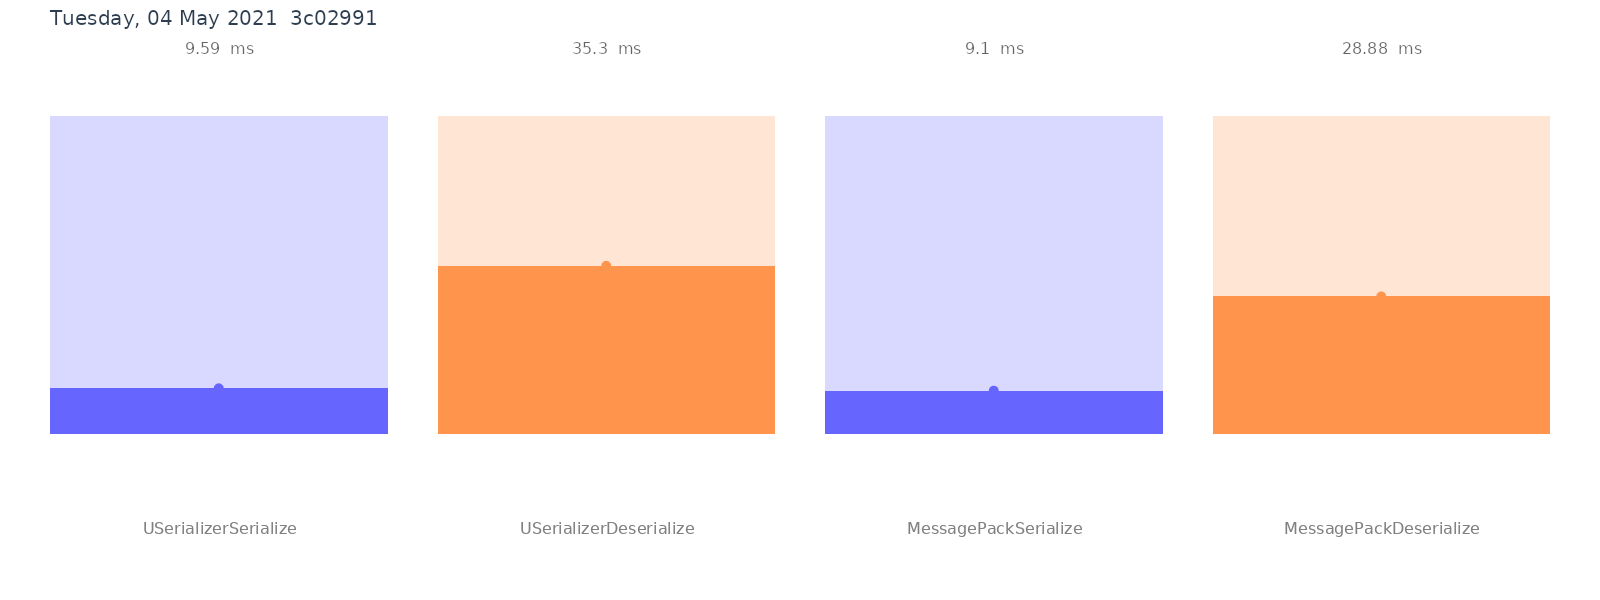
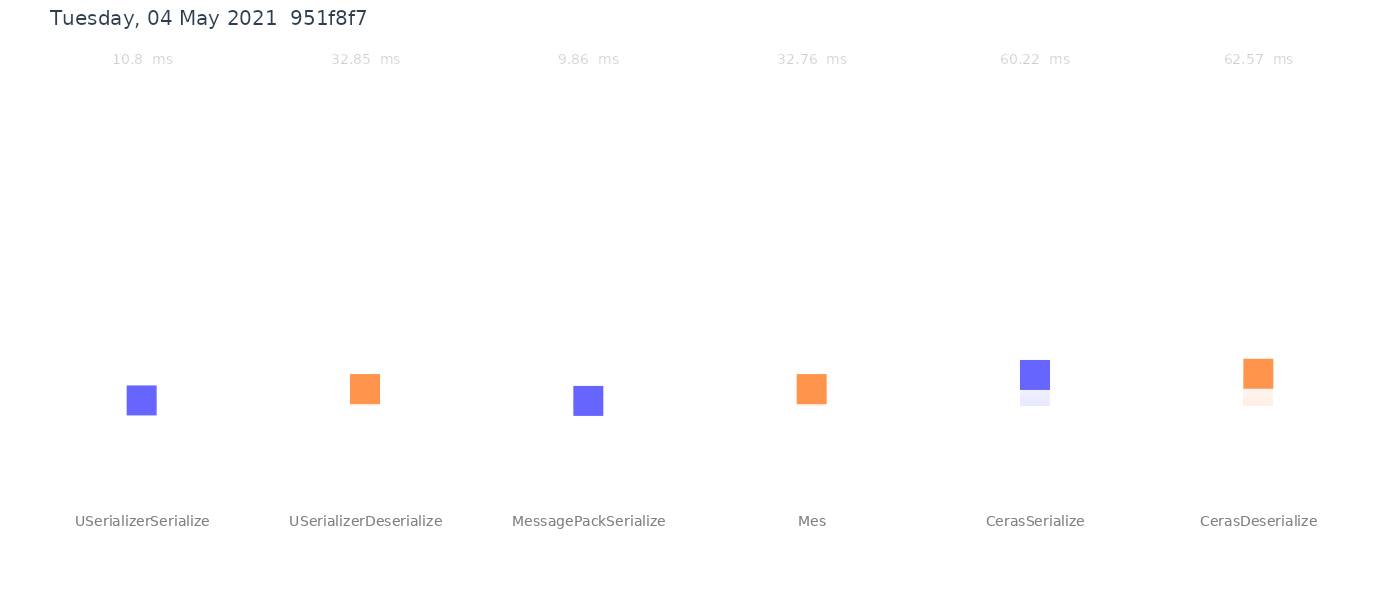
deploy: 951f8f733051b36f19d52b4eeb474c5150d1bf94

diff --git a/index.html b/index.html
@@ -2,7 +2,7 @@
 <html lang='en'>
 <head>
 <meta charset='utf-8' />
-<title>PerformanceTests.SerializationBenchmarks-20210504-150200</title>
+<title>PerformanceTests.SerializationBenchmarks-20210504-154506</title>
 
 <style type="text/css">
 	table { border-collapse: collapse; display: block; width: 100%; overflow: auto; }
@@ -26,10 +26,12 @@ WarmupCount=3
 <table>
 <thead><tr><th>          Method</th><th>Mean</th><th>Error</th><th>StdDev</th>
 </tr>
-</thead><tbody><tr><td>USerializerSerialize</td><td>9.591 ms</td><td>1.835 ms</td><td>0.1006 ms</td>
-</tr><tr><td>USerializerDeserialize</td><td>35.298 ms</td><td>7.909 ms</td><td>0.4335 ms</td>
-</tr><tr><td>MessagePackSerialize</td><td>9.096 ms</td><td>3.955 ms</td><td>0.2168 ms</td>
-</tr><tr><td>MessagePackDeserialize</td><td>28.880 ms</td><td>15.317 ms</td><td>0.8396 ms</td>
+</thead><tbody><tr><td>USerializerSerialize</td><td>10.798 ms</td><td>1.922 ms</td><td>0.1054 ms</td>
+</tr><tr><td>USerializerDeserialize</td><td>32.848 ms</td><td>2.986 ms</td><td>0.1637 ms</td>
+</tr><tr><td>MessagePackSerialize</td><td>9.863 ms</td><td>2.006 ms</td><td>0.1100 ms</td>
+</tr><tr><td>MessagePackDeserialize</td><td>32.760 ms</td><td>2.776 ms</td><td>0.1521 ms</td>
+</tr><tr><td>CerasSerialize</td><td>60.220 ms</td><td>3.569 ms</td><td>0.1956 ms</td>
+</tr><tr><td>CerasDeserialize</td><td>62.568 ms</td><td>17.683 ms</td><td>0.9693 ms</td>
 </tr></tbody></table>
 </body>
 </html>
